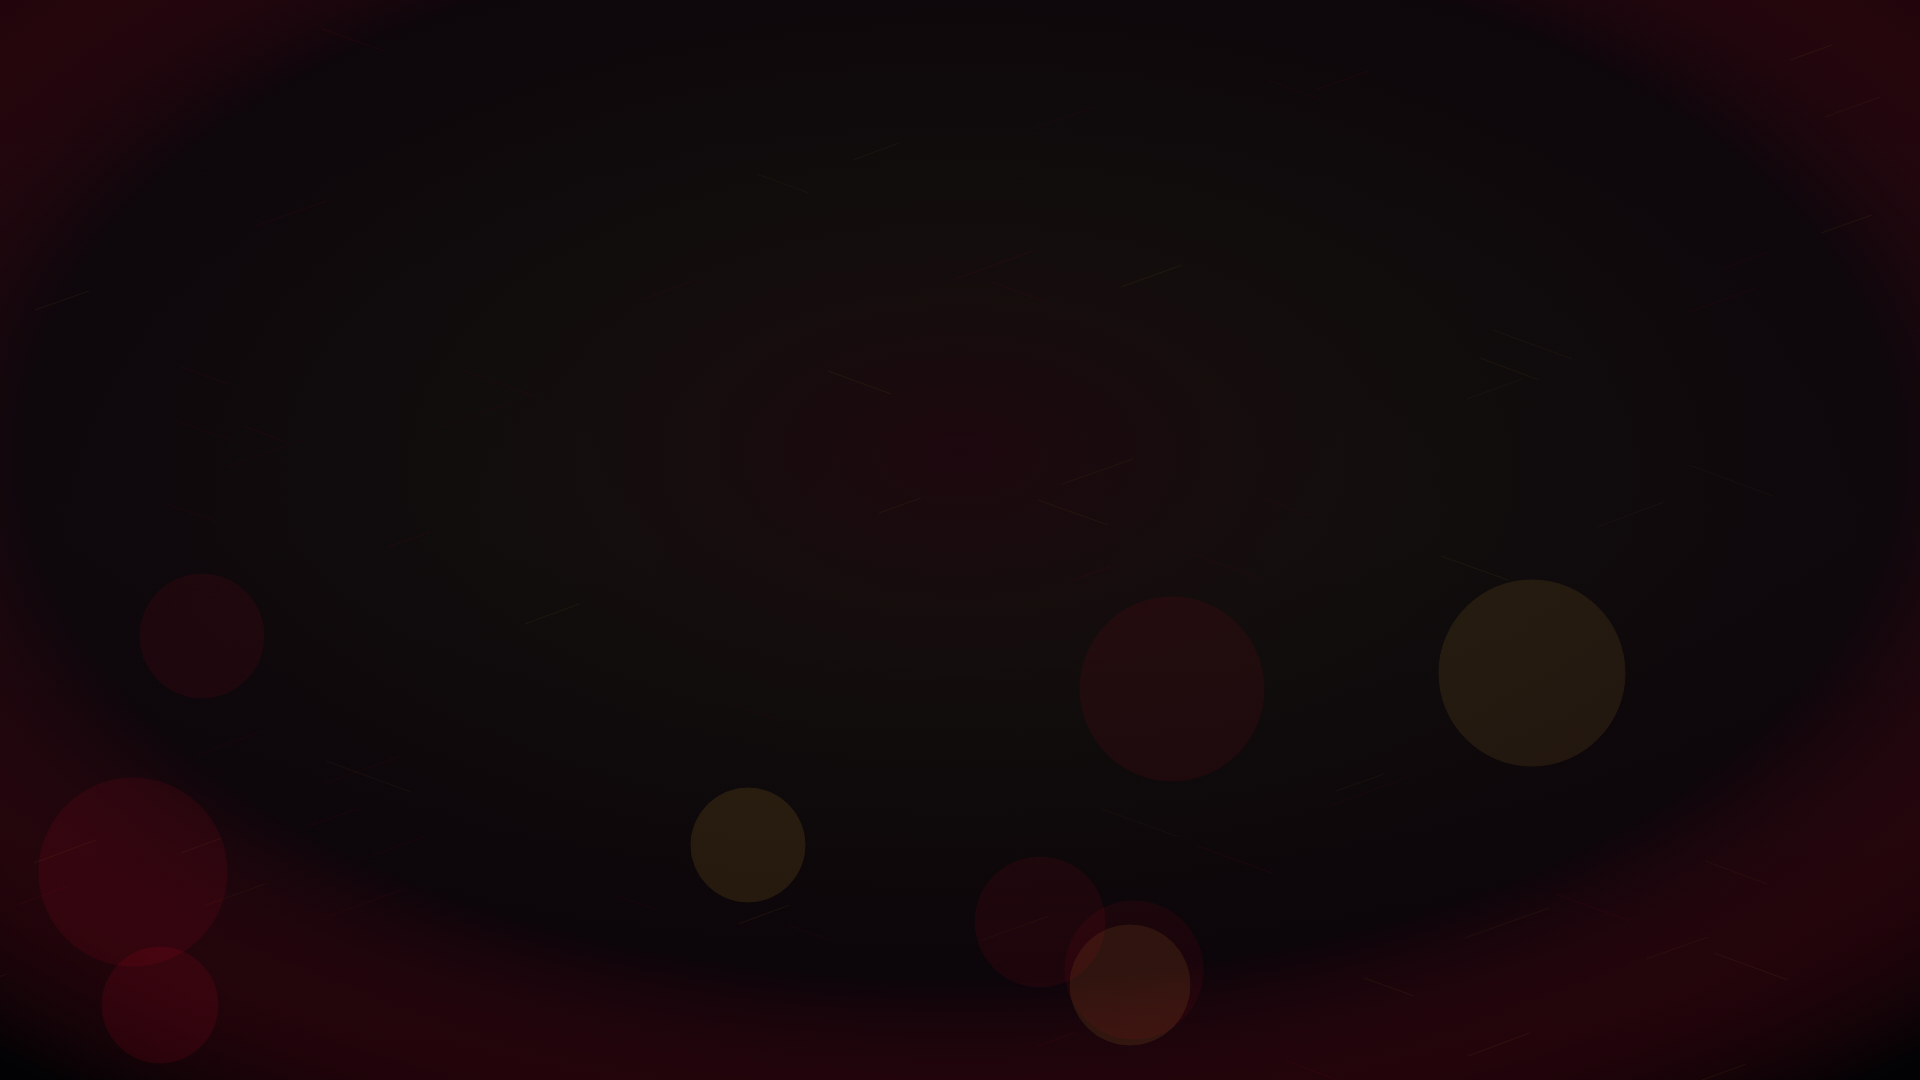
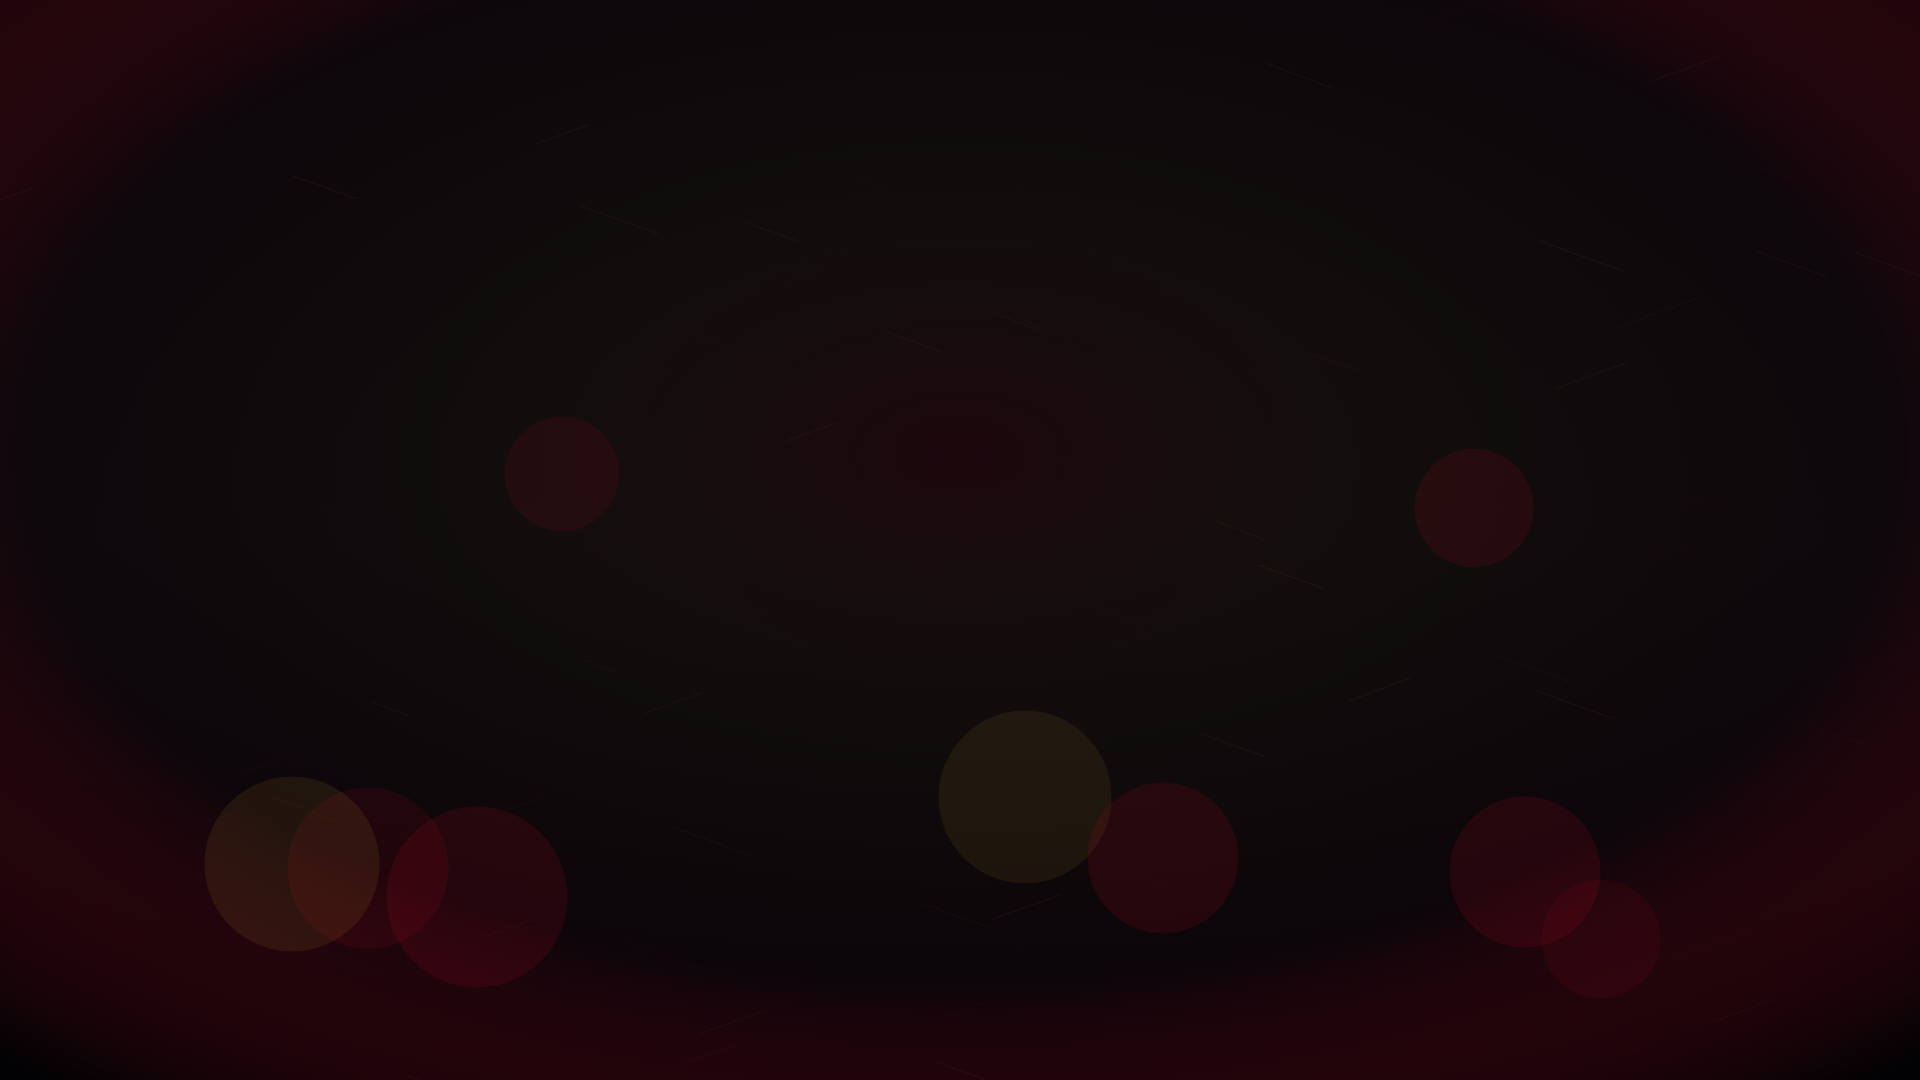
Ship v1.18: grow background style picker from 3 to 10 options
New styles: Shell Scatter, Card Fan, Dice Roll, Roulette, Velvet Drape,
Smoke Wisps, Crosshair - alongside the existing Felt Table, Smoke &
Embers, Chip Scatter. All 10 rendered per theme (50 PNGs total, same
throwaway-script + headless-screenshot pipeline as before), all follow
the same rules that already got approved: two-tone (primary + accent),
no white, no soft glow blooms. Widened the picker dialog and switched
the style grid to 5 columns so 10 options stay compact and scrollable
rather than a long list.

diff --git a/src/components/game/ThemePicker.tsx b/src/components/game/ThemePicker.tsx
@@ -128,7 +128,7 @@ export function ThemePicker() {
           <Palette className="size-4" />
         </Button>
       </DialogTrigger>
-      <DialogContent className="max-w-sm">
+      <DialogContent className="max-h-[85vh] max-w-md overflow-y-auto">
         <DialogHeader>
           <DialogTitle className="flex items-center gap-2">
             <Palette className="size-4 text-primary" />
@@ -158,21 +158,22 @@ export function ThemePicker() {
           <p className="text-xs font-medium tracking-widest text-muted-foreground uppercase">
             Background style
           </p>
-          <div className="grid grid-cols-3 gap-2">
+          <div className="grid grid-cols-5 gap-1.5">
             {BG_STYLES.map((s) => (
               <button
                 key={s.id}
                 type="button"
+                title={s.name}
                 onClick={() => pickStyle(s.id)}
                 className={cn(
-                  "flex flex-col items-center gap-1 rounded-lg border px-2 py-2 text-center transition-colors",
+                  "flex flex-col items-center gap-0.5 rounded-lg border px-1 py-2 text-center transition-colors",
                   style === s.id && !customBg
                     ? "border-primary bg-primary/10"
                     : "border-border hover:border-foreground/30",
                 )}
               >
-                <span className="text-lg">{s.emoji}</span>
-                <span className="text-xs font-medium">{s.name}</span>
+                <span className="text-base">{s.emoji}</span>
+                <span className="truncate text-[10px] font-medium">{s.name}</span>
               </button>
             ))}
           </div>

diff --git a/src/lib/themePresets.ts b/src/lib/themePresets.ts
@@ -31,6 +31,13 @@ export const BG_STYLES: BgStyle[] = [
   { id: "felt", name: "Felt Table", emoji: "🃏" },
   { id: "embers", name: "Smoke & Embers", emoji: "✨" },
   { id: "chips", name: "Chip Scatter", emoji: "🔴" },
+  { id: "shells", name: "Shell Scatter", emoji: "🔫" },
+  { id: "cards", name: "Card Fan", emoji: "🂡" },
+  { id: "dice", name: "Dice Roll", emoji: "🎲" },
+  { id: "roulette", name: "Roulette", emoji: "🎡" },
+  { id: "velvet", name: "Velvet Drape", emoji: "🎭" },
+  { id: "smoke", name: "Smoke Wisps", emoji: "💨" },
+  { id: "crosshair", name: "Crosshair", emoji: "🎯" },
 ];
 export const DEFAULT_BG_STYLE_ID = "felt";
 export const BG_STYLE_STORAGE_KEY = "chamber-seven:bg-style";

diff --git a/src/lib/changelog.ts b/src/lib/changelog.ts
@@ -7,6 +7,14 @@ export interface ChangelogEntry {
 
 export const CHANGELOG: ChangelogEntry[] = [
   {
+    version: "1.18",
+    date: "2026-08-06",
+    title: "10 background styles",
+    changes: [
+      "Grew the background style picker from 3 to 10: Felt Table, Smoke & Embers, Chip Scatter, Shell Scatter, Card Fan, Dice Roll, Roulette, Velvet Drape, Smoke Wisps, and Crosshair. Every style still follows your chosen table vibe's two colors, still no white or glow.",
+    ],
+  },
+  {
     version: "1.17",
     date: "2026-08-06",
     title: "Two-tone backgrounds + 3 selectable styles",
